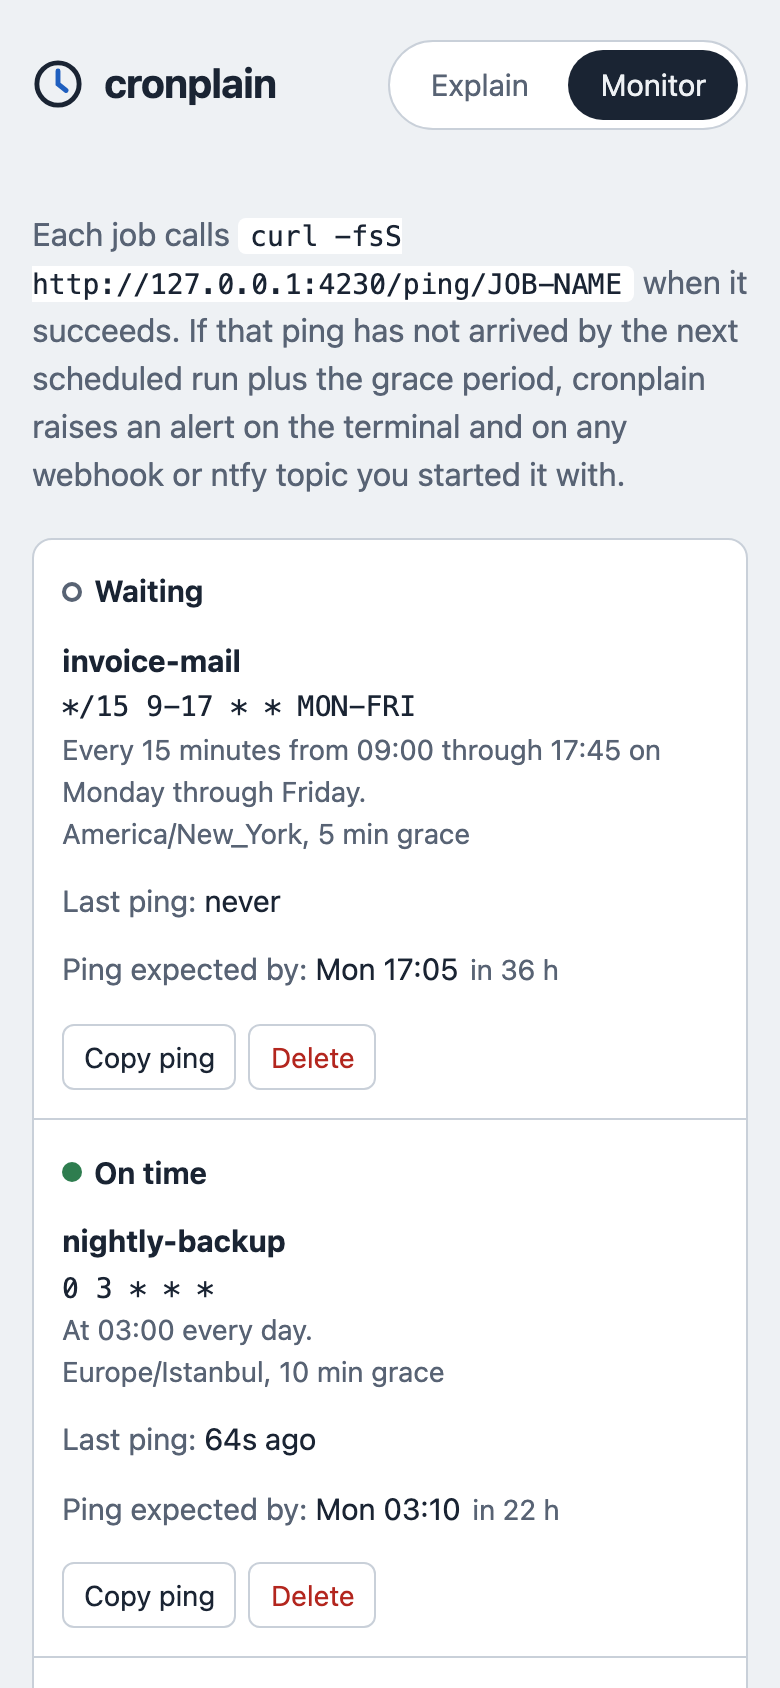
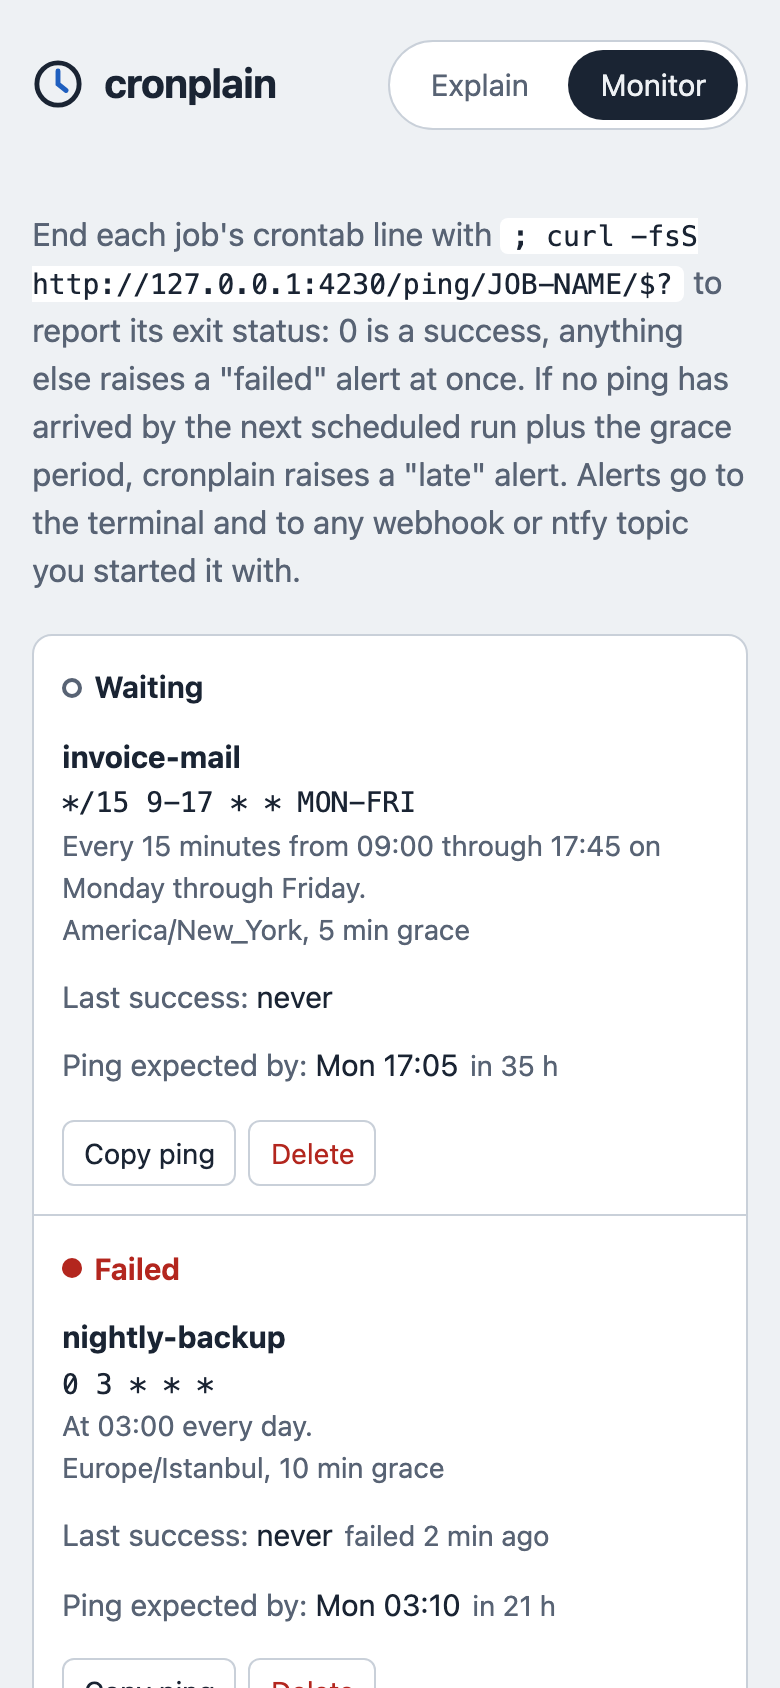
Docs and dashboard for failure pings; retake monitor screenshots
The jobs table column is now "Last success" with "failed N min ago"
under it. README documents the ping URLs and the webhook fields; the
screenshots were retaken from serve with synthetic jobs.

diff --git a/internal/monitor/web/index.html b/internal/monitor/web/index.html
@@ -354,14 +354,14 @@ async function loadJobs() {
     $("#jobs").innerHTML = `<div class="empty">No jobs yet. Add the first one below.</div>`;
     return;
   }
-  $("#jobs").innerHTML = `<table class="jobs"><thead><tr><th>Status</th><th>Job</th><th>Last ping</th><th>Ping expected by</th><th><span class="sr">Actions</span></th></tr></thead><tbody>` +
+  $("#jobs").innerHTML = `<table class="jobs"><thead><tr><th>Status</th><th>Job</th><th>Last success</th><th>Ping expected by</th><th><span class="sr">Actions</span></th></tr></thead><tbody>` +
     jobs.map((j) => {
       const cmd = `curl -fsS ${location.origin}${j.ping_path}/$?`;
       const due = j.due ? new Date(j.due) : null;
       return `<tr>
         <td><span class="state ${esc(j.state)}"${j.state === "new" ? ' title="No ping yet; the first one is expected by the time shown"' : ""}>${esc(stateText[j.state] || j.state)}</span></td>
         <td><strong>${esc(j.id)}</strong><br><code>${esc(j.schedule)}</code><div class="desc">${esc(j.description)}<br>${esc(j.tz)}, ${Math.round(j.grace_seconds / 60)} min grace</div></td>
-        <td data-label="Last ping: " title="${esc(j.last_ping || "")}"><span class="when">${esc(ago(j.last_ping))}</span>${j.last_fail ? `<div class="desc" title="${esc(j.last_fail)}">failed ${esc(ago(j.last_fail))}</div>` : ""}</td>
+        <td data-label="Last success: " title="${esc(j.last_ping || "")}"><span class="when">${esc(ago(j.last_ping))}</span>${j.last_fail ? `<div class="desc when" title="${esc(j.last_fail)}">failed ${esc(ago(j.last_fail))}</div>` : ""}</td>
         <td data-label="Ping expected by: ">${due ? `<span class="when" title="${esc(due.toString())}">${esc(due.toLocaleString([], { weekday: "short", hour: "2-digit", minute: "2-digit", hourCycle: "h23" }))}</span><div class="desc">${esc(until(j.due))}</div>` : "–"}</td>
         <td><div class="actions"><button class="btn" type="button" data-copy="${esc(cmd)}" title="${esc(cmd)}" aria-label="Copy the ping command for ${esc(j.id)}">Copy ping</button><button class="btn danger" type="button" data-del="${esc(j.id)}" aria-label="Delete ${esc(j.id)}">Delete</button></div></td>
       </tr>`;

diff --git a/README.md b/README.md
@@ -4,7 +4,7 @@
 
 **Know when your scheduled jobs really run, and hear about it when they don't.**
 
-cronplain is one small Go binary that explains cron, Quartz, systemd, AWS EventBridge and GitHub Actions schedules in plain English, lists their next runs with daylight-saving changes called out, audits whole crontabs, and runs a local heartbeat monitor that tells you when a job did not report in.
+cronplain is one small Go binary that explains cron, Quartz, systemd, AWS EventBridge and GitHub Actions schedules in plain English, lists their next runs with daylight-saving changes called out, audits whole crontabs, and runs a local heartbeat monitor that tells you when a job failed or did not report in.
 
 ![A 16-second recording of the local web UI: typing 30 2 * * 0 shows that 02:30 does not exist on 14 March 2027 in New York; 0 9 1-7 * 1 warns that cron runs on days 1-7 OR on Mondays; an AWS cron with a wrap-around hour range is explained; the Monitor tab lists four jobs with their status and next expected ping](docs/screenshots/demo.gif)
 
@@ -104,20 +104,30 @@ Use `-system` for the format of `/etc/crontab` and files in `/etc/cron.d/` (user
 
 ### Heartbeat monitor
 
-![Monitor tab in dark mode: four jobs, one late, one waiting for its first ping, with the ping command above the table](docs/screenshots/monitor.png)
+![Monitor tab in dark mode: four jobs, one failed a minute ago, one late, one waiting for its first ping, with the ping command above the table](docs/screenshots/monitor.png)
 
-<img src="docs/screenshots/monitor-mobile.png" width="260" align="right" alt="The same monitor on a 390px-wide phone: each job is a card with its status, schedule, last ping, next expected ping and Copy ping and Delete buttons">
+<img src="docs/screenshots/monitor-mobile.png" width="260" align="right" alt="The same monitor on a 390px-wide phone: each job is a card with its status, schedule, last success, next expected ping and Copy ping and Delete buttons">
 
 ```sh
 cronplain serve -db ~/.cronplain.db -ntfy my-server-jobs
 ```
 
 1. Open `http://127.0.0.1:4230`, switch to **Monitor** and add a job: a name, its schedule (any syntax above), its time zone and a grace period.
-2. Make the job report success, for example in a crontab:
-   `0 3 * * * /opt/bin/backup && curl -fsS http://127.0.0.1:4230/ping/nightly-backup`
-3. If no ping arrives by *the first scheduled run after the last ping + grace*, cronplain alerts once, and again with "recovered" when the next ping arrives. When DST ends and an hour repeats, a fixed-time job is expected only once, because cron runs it only once.
+2. Make the job report each run with its exit status, for example in a crontab:
+   `0 3 * * * /opt/bin/backup; curl -fsS http://127.0.0.1:4230/ping/nightly-backup/$?`
+3. Exit status 0 counts as a success. Anything from 1 to 255 marks the job **failed** and alerts at once, instead of a day later when the next run is missed. A job that keeps failing alerts only on its first failure.
+4. If no ping arrives by *the first scheduled run after the last ping + grace*, the job is **late** and cronplain alerts once. When DST ends and an hour repeats, a fixed-time job is expected only once, because cron runs it only once.
+5. The next success after a failure or a late alert sends "recovered".
 
-Alerts always go to the terminal, and optionally to `-webhook URL` (JSON `POST` with `job`, `state`, `schedule`, `due`, `last_ping`, `message`) and to an ntfy topic (`-ntfy TOPIC`, `-ntfy-server` defaults to `https://ntfy.sh`).
+| Ping URL | Means |
+|---|---|
+| `/ping/ID` or `/ping/ID/0` | the run succeeded |
+| `/ping/ID/1` ... `/ping/ID/255` | the run failed with that exit status |
+| `/ping/ID/fail` | the run failed (for scripts that do not pass `$?`) |
+
+The older form `cmd && curl -fsS .../ping/ID` still works; it only reports successes, so a failure shows up as "late" at the next run.
+
+Alerts always go to the terminal, and optionally to `-webhook URL` (JSON `POST` with `job`, `state` (`late`, `failed` or `recovered`), `schedule` and `due` (on `late`), `last_ping`, `exit_status` (on `failed` from `/ping/ID/N`) and `message`) and to an ntfy topic (`-ntfy TOPIC`, `-ntfy-server` defaults to `https://ntfy.sh`).
 Jobs and ping times live in one SQLite file (`-db`, created readable by your user only). A failed webhook or ntfy delivery (network error, HTTP 429 or 5xx) is logged and retried in the background after 30 s, 2 min and 10 min; other 4xx answers are not retried, and retries still pending when `serve` stops are lost. The terminal line is always written. Pings accept `GET`, `POST` or `HEAD`.
 Adding a job under an existing name updates its schedule, zone and grace and keeps its last ping; the page says so.
 The page follows the system light or dark theme, works at phone width, and is usable from the keyboard alone.
@@ -161,7 +171,7 @@ Use cronplain when you want all of this offline in one binary: check a schedule 
 Ideas, not promises:
 
 - Optional token so pings can come from other machines through a reverse proxy.
-- A `/ping/<id>/fail` endpoint and a short ping history per job.
+- A short ping history per job, and a `/start` ping to measure how long a run takes.
 - A static, offline build of the explainer page (today it is served by `cronplain serve`; the schedule math exists only in Go, so this needs a WebAssembly build or a port).
 - Explaining several `cron:` lines of one workflow at once (today a pasted snippet must have exactly one).
 

diff --git a/CHANGELOG.md b/CHANGELOG.md
@@ -5,6 +5,14 @@ The format follows [Keep a Changelog](https://keepachangelog.com/en/1.1.0/).
 
 ## [Unreleased]
 
+### Added (feature round 7)
+- Failure pings. A job that ran on time but failed was noticed only when its *next* run was overdue (a day later for a daily job), because `cmd && curl .../ping/ID` simply sent nothing. Ending the crontab line with `; curl -fsS http://127.0.0.1:4230/ping/ID/$?` now reports the exit status: `/ping/ID/0` (or plain `/ping/ID`) is a success, `/ping/ID/1` to `/ping/ID/255` and `/ping/ID/fail` mark the job **failed** and alert at once (terminal, webhook with `"state":"failed"` and `exit_status`, ntfy titled "JOB failed"). A job that keeps failing alerts only on the first failure of a streak, or again after a late alert; the next success sends "recovered". The next ping is then expected after the next scheduled run, as for a success. Anything else after `/ping/ID/` (`256`, `-1`, `ok`) is a 404 with the accepted forms.
+- Dashboard: a red "Failed" status, "failed N min ago" under the last success (the column is now called "Last success"), the intro and the "Added" message show the `; curl .../ping/ID/$?` form, and "Copy ping" copies `curl -fsS .../ping/ID/$?`. `monitor.png` and `monitor-mobile.png` retaken from the running app with a failed job.
+- Databases from earlier versions gain a `last_fail` column when `serve` opens them (tested against a database with the old schema).
+
+### Changed (feature round 7)
+- The "recovered" message reads "job X succeeded again and is back on schedule" (was "pinged again"), since a failure is also a ping now.
+
 ### Fixed (launch round 6)
 - A failed webhook or ntfy alert was lost: it was tried once and only logged. Network errors, HTTP 429 and 5xx are now retried in the background after 30 s, 2 min and 10 min (then "giving up after 4 attempts" is logged); other 4xx answers are final. The first attempt is unchanged and still synchronous. Retries pending when `serve` stops are lost (noted in the code as a shortcut).
 - Pasting a workflow snippet (`on:` / `schedule:` / `- cron: '...'` on separate lines) failed with a systemd error ("two time parts"). `explain`, `/api/explain` and monitor jobs now use its one `cron:` line; several `cron:` lines, or several plain lines, get a clear error. In the web page the schedule fields pick the `cron:` line on paste, because a one-line input drops the newlines (reproduced in Chromium first; the Playwright journey covers it).
@@ -71,6 +79,8 @@ The format follows [Keep a Changelog](https://keepachangelog.com/en/1.1.0/).
 - Recovered webhook alerts no longer carry a zero `due` time.
 
 ### Notes for the next person
+- Round 7 (feature) picked failure pings after using the monitor: with only success pings a failing daily job stays "On time" for up to a day. `Store.Ping`/`Store.Fail` share `Store.record`; `Job.LastFail` is cleared by every success, so "failed" is simply `LastFail != nil` (no timestamp comparison at one-second resolution). `Status` measures the next due time from the later of the last success and the last failure. The Codex review was not run this round either (usage limit until after the deadline); the diff was reviewed by hand and covered by `TestFailurePings`, `TestOpenStoreAddsLastFail`, new `TestStatus` rows and the Playwright journey (which now reports exit status 2, then 0).
+- `docs/screenshots/demo.gif` still shows the old monitor intro text ("Each job calls curl ... when it succeeds"); the usage it shows still works. Re-record it when convenient.
 - Round 5 (reliability) also tried and found fine: empty/whitespace/oversized expressions, full-width digits, NBSP between fields, `-n`/`-tz`/`-check-every` bounds, a directory or non-SQLite file as `-db`, Santiago's midnight DST and Lord Howe's 30-minute DST, years up to 2199, never-firing schedules (each `/api/explain` under 50 ms), audit fuzzing (20 s) and explain fuzzing (30 s).
 - Known and left alone: `TZ=A CRON_TZ=B expr` (both prefixes, in that order) gives a confusing error. (Round 6 fixed the other two items that were here: alert retries and multi-line YAML pastes.)
 - Round 6 (launch) left as is: the TypeScript explainer (see the note below; the README roadmap lists a static build), and AWS `L-n`/`LW` (cronplain parses them and says to check; no AWS account was used to confirm). Private vulnerability reporting is off; turning it on is a repository setting for the owner.
